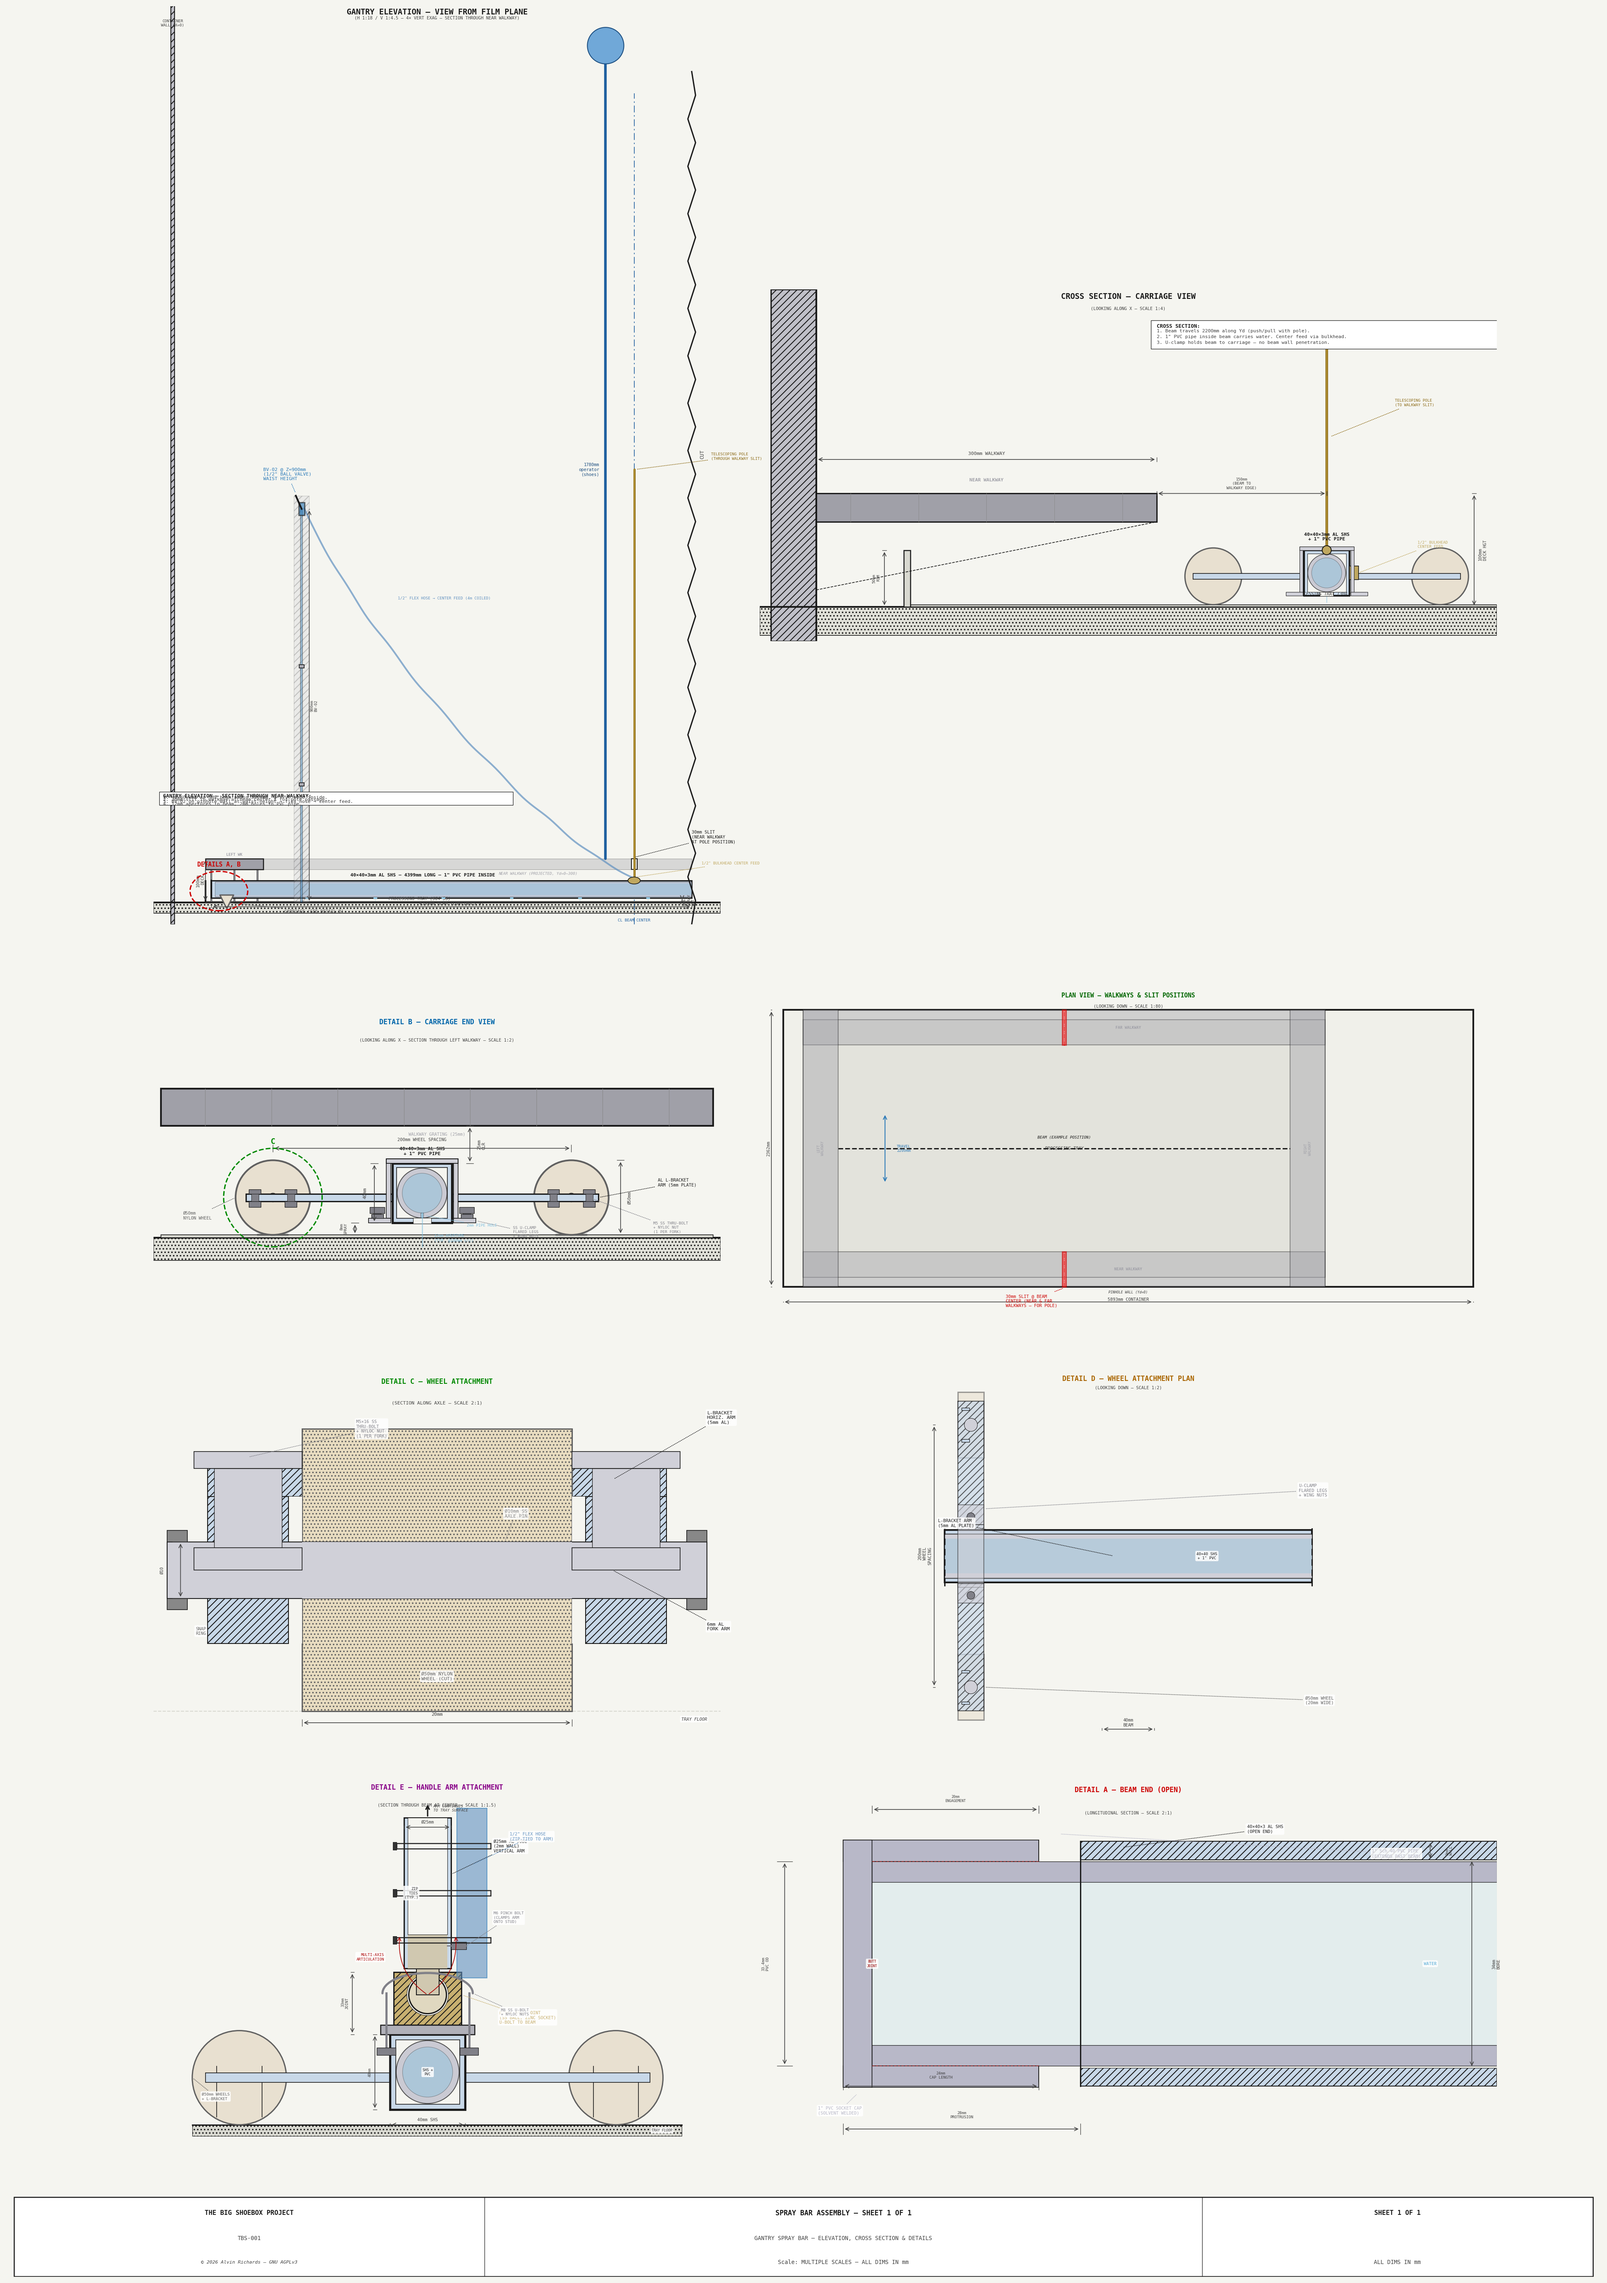
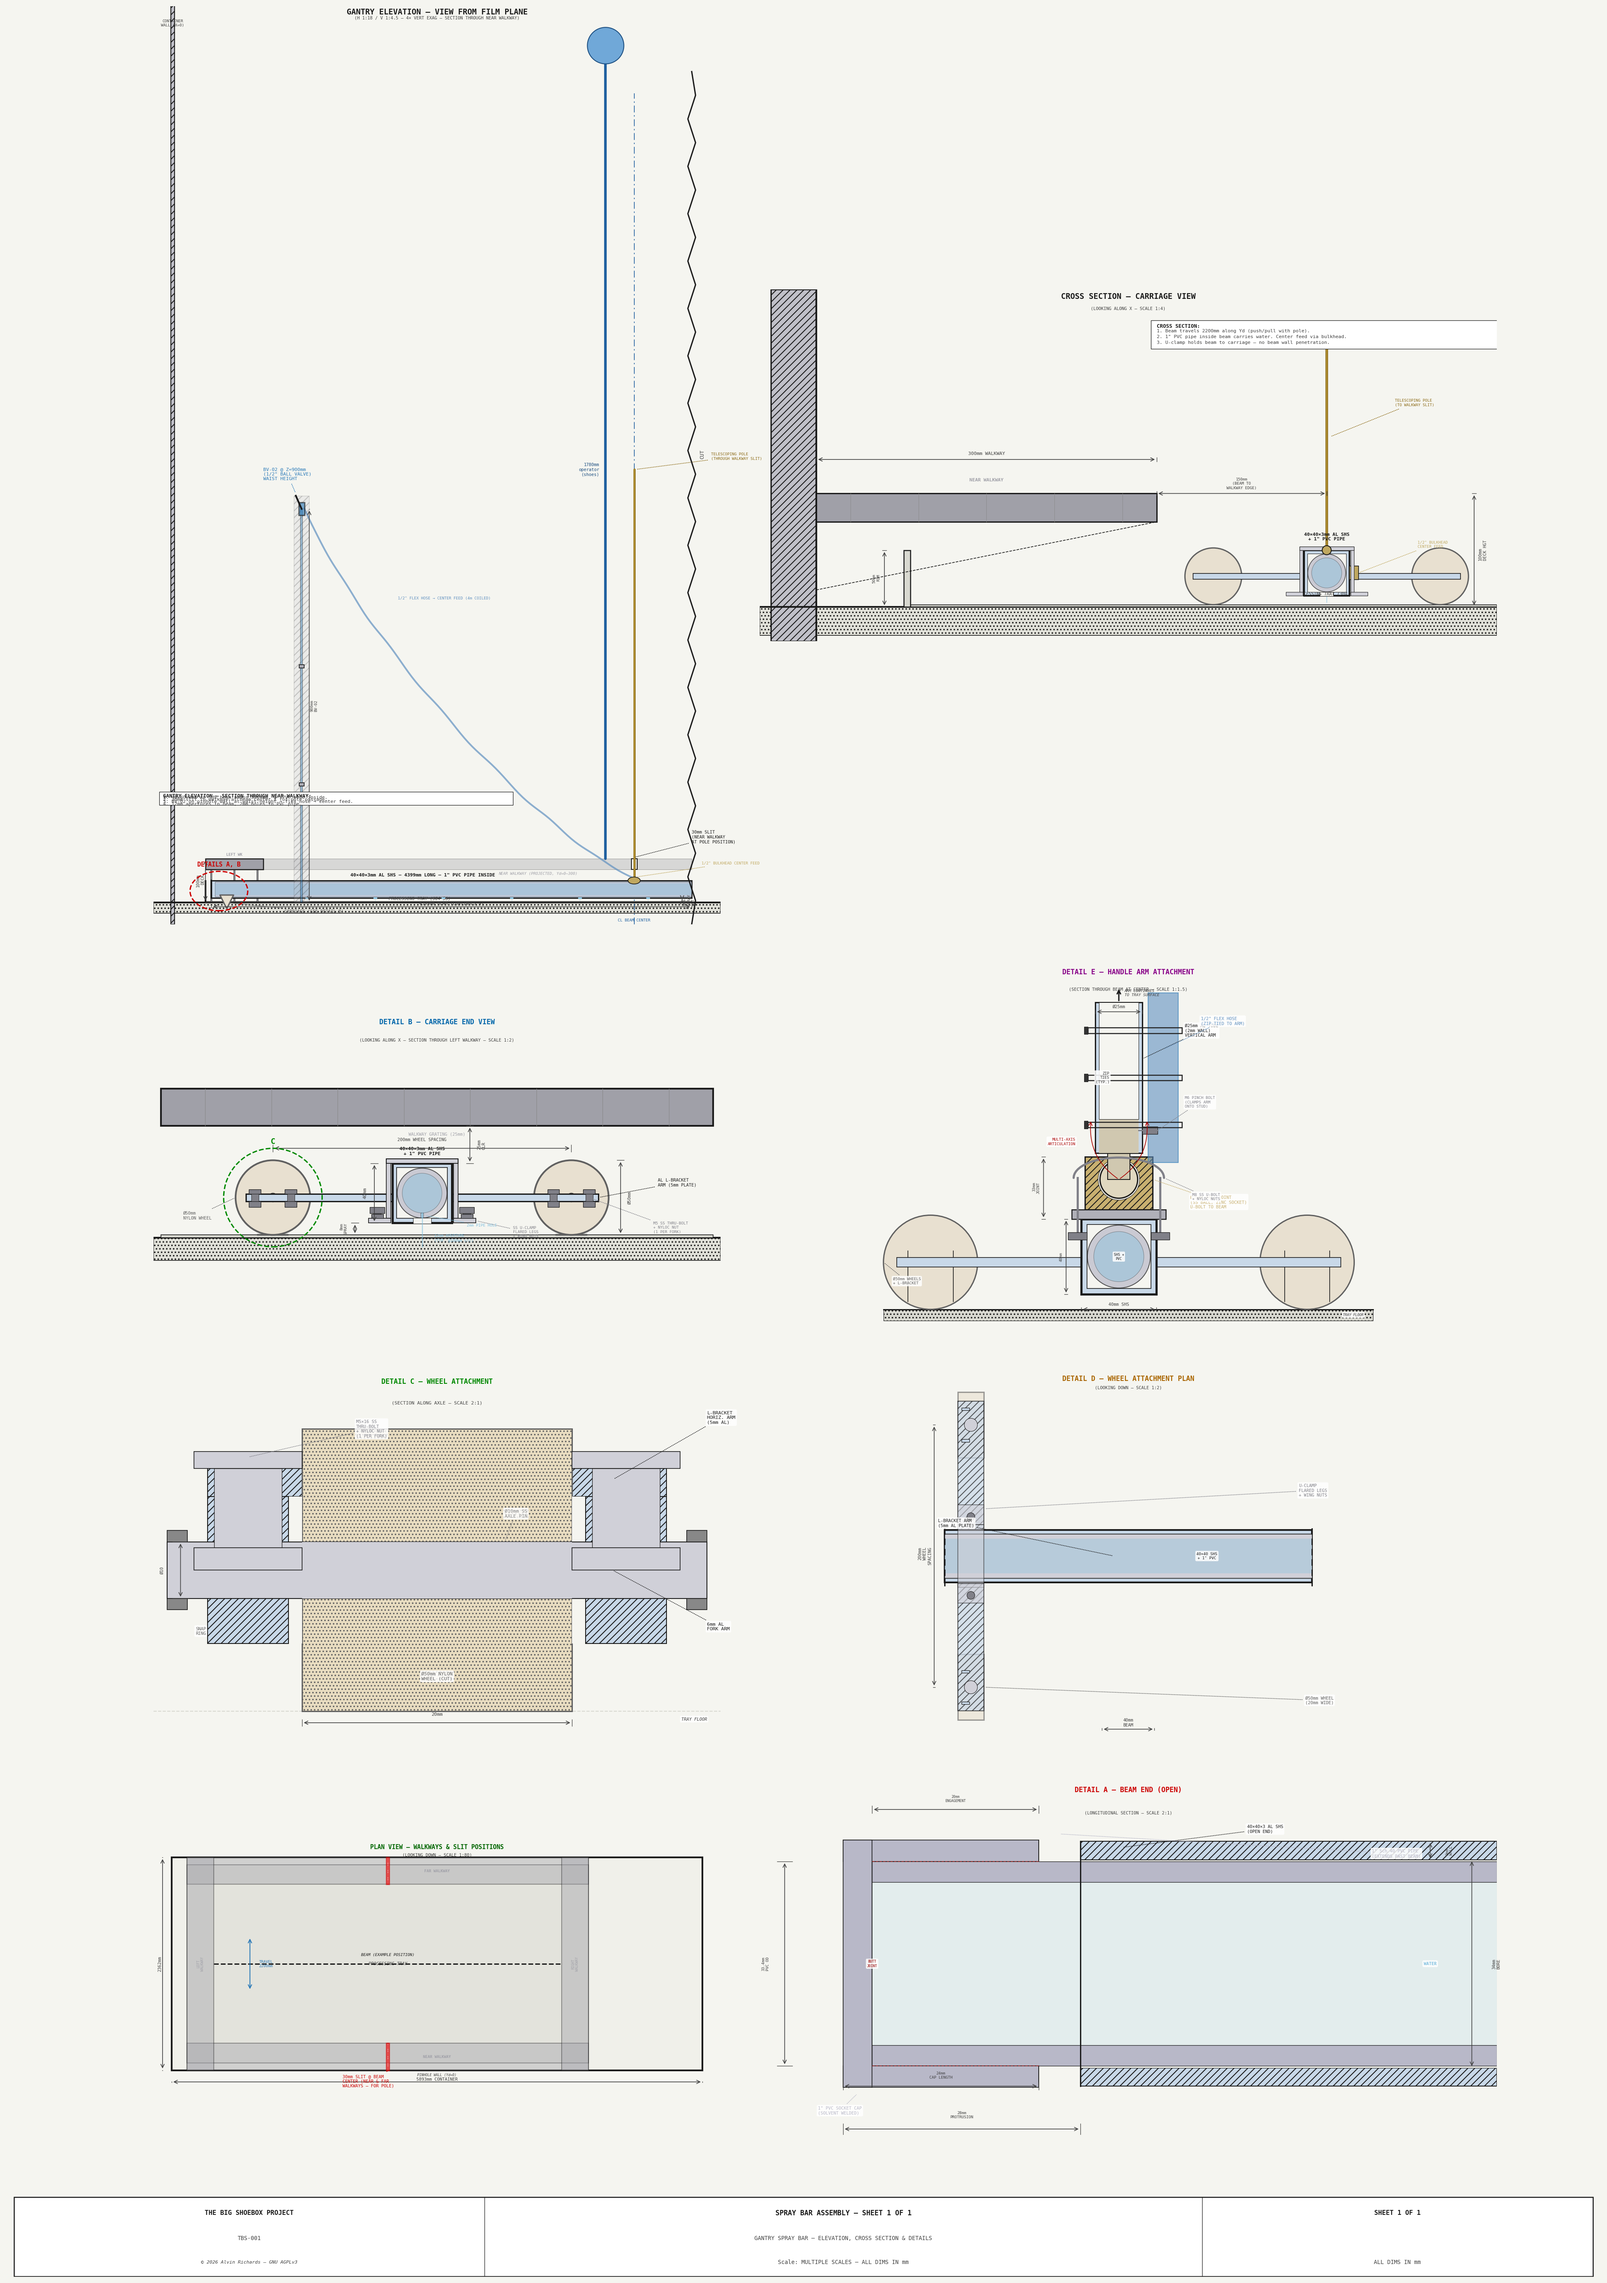
Swap plan view and Detail E positions on sheet

Changed region(s): [[0.4972, 0.4354, 0.8701, 0.591], [0.0932, 0.7776, 0.435, 0.9331]]

diff --git a/generate_spray_bar_diagram.py b/generate_spray_bar_diagram.py
@@ -1363,7 +1363,7 @@ draw_dim_h(ax_d, px(-BEAM_W / 2), px(BEAM_W / 2),
 # PLAN VIEW — Container floor plan showing walkways, tray, and slit positions
 # Looking down (X horizontal, Yd vertical).  Scaled to fit panel.
 # ─────────────────────────────────────────────────────────────────────────────
-ax_p = fig.add_subplot(gs[1, 1])
+ax_p = fig.add_subplot(gs[3, 0])
 ax_p.set_facecolor(C_BG)
 ax_p.set_aspect("equal")
 ax_p.axis("off")
@@ -1504,7 +1504,7 @@ ax_p.text(ppx(C_LEN / 2), ppy(-30),
 # Shows ball joint on beam top face, round tube arm extending upward,
 # water hose zip-tied to arm.
 # ─────────────────────────────────────────────────────────────────────────────
-ax_e = fig.add_subplot(gs[3, 0])
+ax_e = fig.add_subplot(gs[1, 1])
 ax_e.set_facecolor(C_BG)
 ax_e.axis("off")
 
